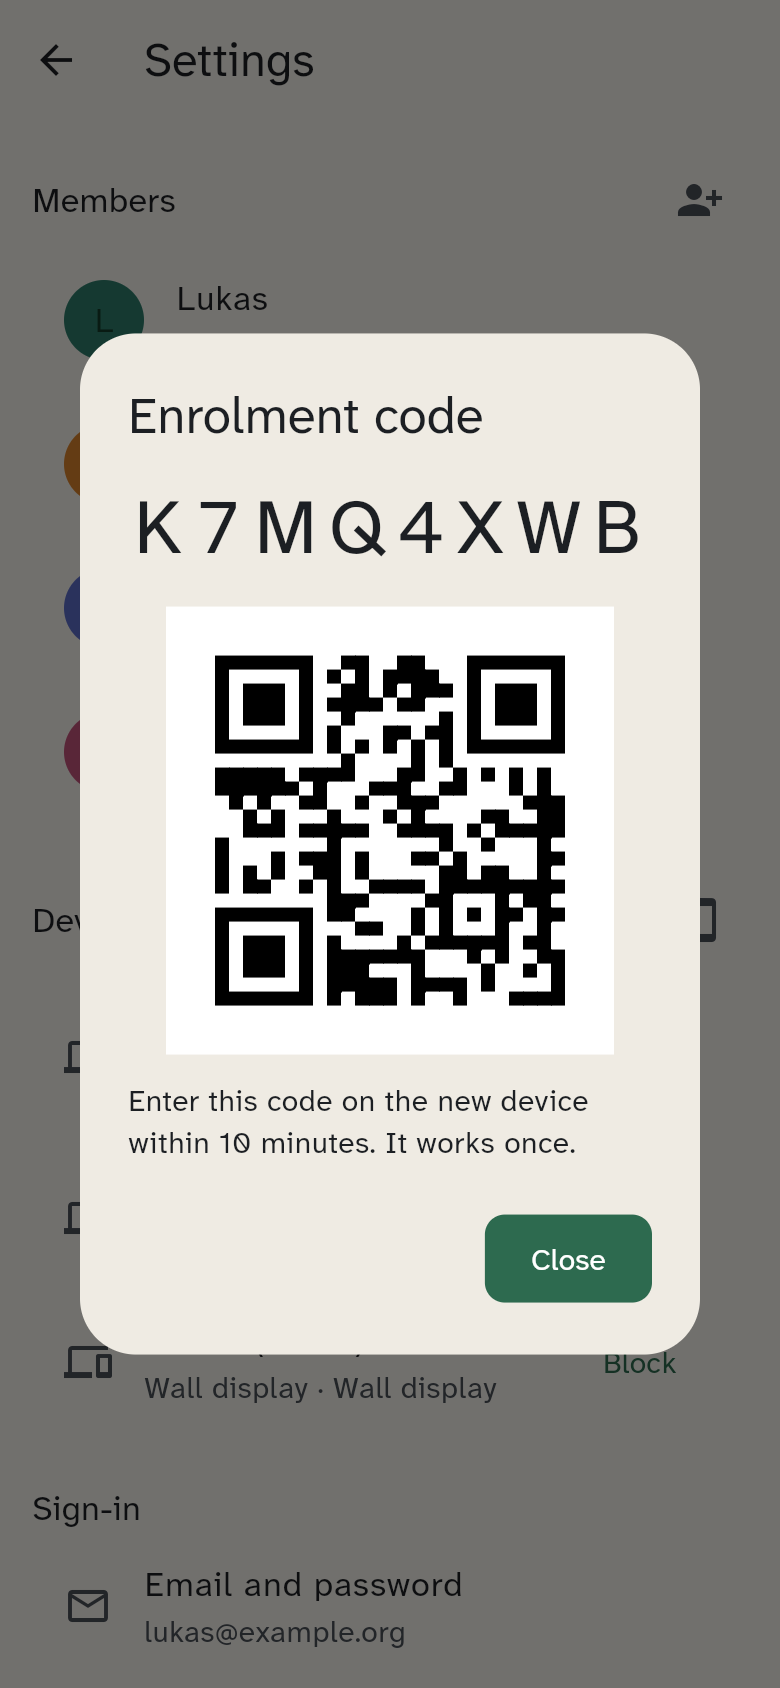
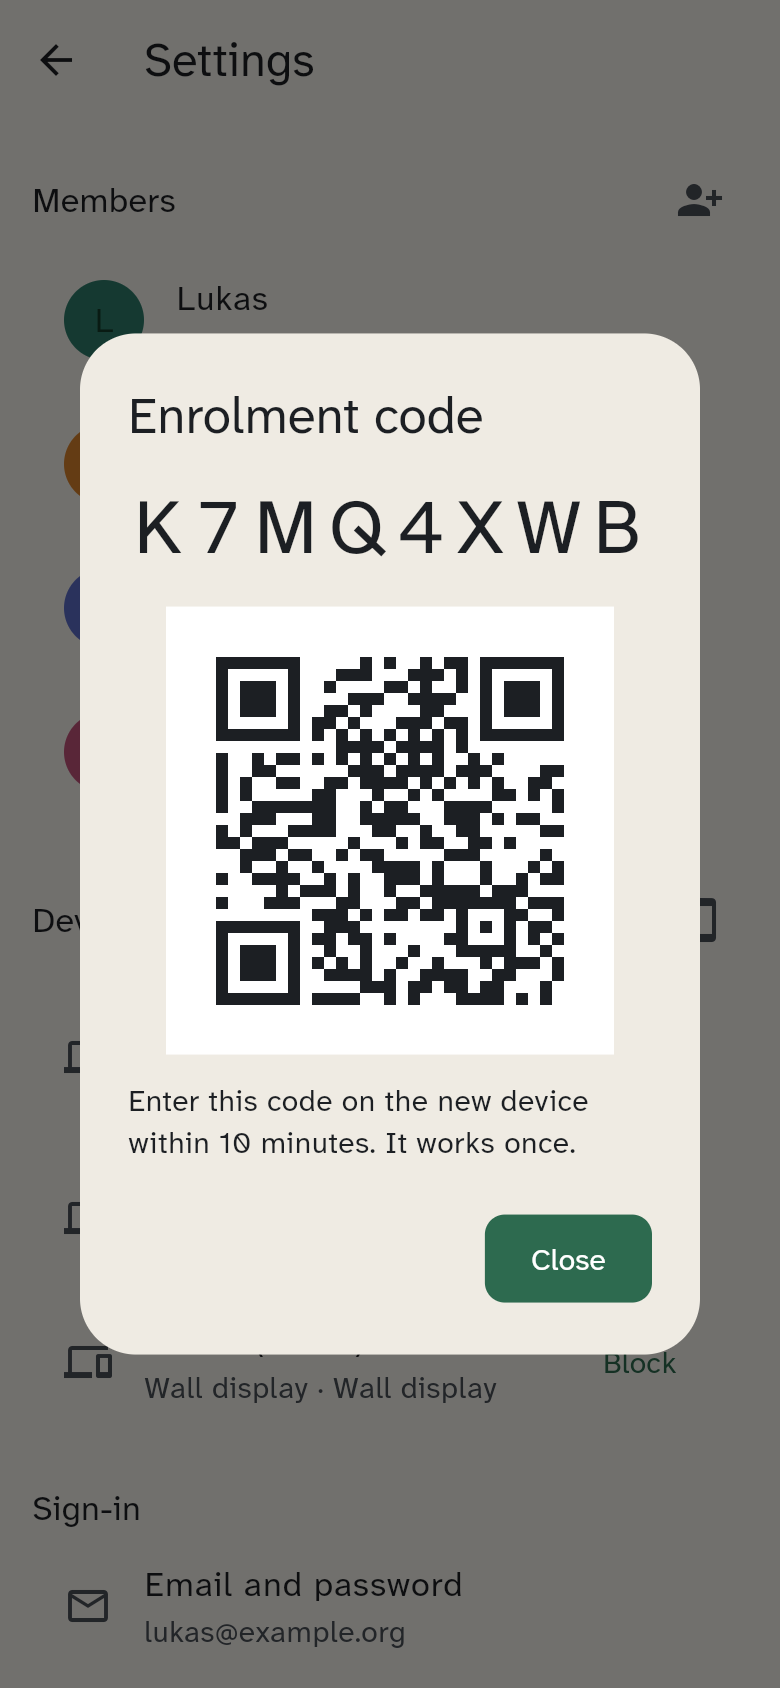
App: replace qr_flutter with a QrCodeView on qr 4
qr_flutter has not been released since May 2023 and held qr at 3.x. QrCodeView is
about a hundred lines over qr's module matrix: whole device pixels per module, a
4-module quiet zone, error correction M. Colours come from the theme (qrInk/qrPaper:
the shade's own text pair, dark on light, amber paper at night) instead of a
Colors.white literal, and the TOTP code gets a localized semantics label it lacked.
Tests check every module's pixels against the matrix in all three shades; the docs
screenshots decode with jsQR in day and night colours.

Changed region(s): [[0.2769, 0.3697, 0.7385, 0.6161]]

diff --git a/app/test/core/qr_code_view_test.dart b/app/test/core/qr_code_view_test.dart
@@ -1,0 +1,138 @@
+import 'dart:ui' as ui;
+
+import 'package:flutter/foundation.dart';
+import 'package:flutter/material.dart';
+import 'package:flutter_test/flutter_test.dart';
+import 'package:qr/qr.dart';
+import 'package:wuselwall/app/theme/app_theme.dart';
+import 'package:wuselwall/app/theme/palette.dart';
+import 'package:wuselwall/app/theme/ui_register.dart';
+import 'package:wuselwall/app/theme/ww_colors.dart';
+import 'package:wuselwall/core/ui/qr_code_view.dart';
+
+const _enrolment = 'wuselwall://enrol?code=ABCD2345';
+const _totp =
+    'otpauth://totp/WuselWall:someone%40example.org?secret=JBSWY3DPEHPK3PXPJBSWY3DPEHPK3PXP'
+    '&issuer=WuselWall&algorithm=SHA1&digits=6&period=30';
+
+QrImage _matrix(String data) => QrImage(
+  QrCode(
+    payload: QrPayload.fromString(data),
+    errorCorrectLevel: QrErrorCorrectLevel.medium,
+  ),
+);
+
+List<int> _rgb(Color c) => [
+  (c.r * 255).round(),
+  (c.g * 255).round(),
+  (c.b * 255).round(),
+];
+
+/// Paints [painter] into a [logical]-sized square at [dpr] and returns RGBA pixels.
+Future<({Uint8List rgba, int width})> _render(
+  QrMatrixPainter painter,
+  double logical,
+  double dpr,
+) async {
+  final recorder = ui.PictureRecorder();
+  final canvas = Canvas(recorder)..scale(dpr);
+  painter.paint(canvas, Size.square(logical));
+  final width = (logical * dpr).round();
+  final image = await recorder.endRecording().toImage(width, width);
+  final bytes = await image.toByteData();
+  return (rgba: bytes!.buffer.asUint8List(), width: width);
+}
+
+void main() {
+  for (final shade in Shade.values) {
+    final ww = WwColors(shade: shade);
+    final ink = _rgb(ww.qrInk), paper = _rgb(ww.qrPaper);
+
+    for (final (name, data, logical, dpr) in [
+      ('enrolment code, 1x', _enrolment, 224.0, 1.0),
+      ('enrolment code, 2.625x', _enrolment, 224.0, 2.625),
+      ('TOTP URI, 3x', _totp, 224.0, 3.0),
+      ('TOTP URI, 1.5x', _totp, 180.0, 1.5),
+    ]) {
+      test('${shade.name}: every module matches the qr matrix, $name', () async {
+        final matrix = _matrix(data);
+        final painter = QrMatrixPainter(
+          image: matrix,
+          darkColor: ww.qrInk,
+          lightColor: ww.qrPaper,
+          devicePixelRatio: dpr,
+        );
+        final r = await _render(painter, logical, dpr);
+        final n = matrix.moduleCount;
+        final modulePx = (painter.moduleExtent(logical) * dpr).round();
+        List<int> pixel(int x, int y) =>
+            r.rgba.sublist((y * r.width + x) * 4, (y * r.width + x) * 4 + 3);
+
+        // The first ink pixel on the diagonal is the top-left finder's outer corner.
+        var origin = 0;
+        while (!listEquals(pixel(origin, origin), ink)) {
+          origin++;
+        }
+
+        // A quiet zone of at least 4 modules on every side, all paper.
+        final end = origin + n * modulePx;
+        expect(origin, greaterThanOrEqualTo(4 * modulePx));
+        expect(r.width - end, greaterThanOrEqualTo(4 * modulePx));
+        for (var y = 0; y < r.width; y++) {
+          for (var x = 0; x < r.width; x++) {
+            if (x < origin || y < origin || x >= end || y >= end) {
+              expect(pixel(x, y), paper, reason: '($x,$y)');
+            }
+          }
+        }
+
+        // Every pixel of every module has the module's colour: crisp, no seams.
+        for (var row = 0; row < n; row++) {
+          for (var col = 0; col < n; col++) {
+            final want = matrix.isDark(row, col) ? ink : paper;
+            for (var dy = 0; dy < modulePx; dy++) {
+              for (var dx = 0; dx < modulePx; dx++) {
+                final x = origin + col * modulePx + dx;
+                final y = origin + row * modulePx + dy;
+                expect(pixel(x, y), want, reason: 'module ($row,$col)');
+              }
+            }
+          }
+        }
+      });
+    }
+  }
+
+  testWidgets('screen readers get the label as an image, at the given size', (
+    t,
+  ) async {
+    final semantics = t.ensureSemantics();
+    await t.pumpWidget(
+      MaterialApp(
+        theme: AppTheme.build(UiRegister.adult, Shade.light),
+        home: const Center(
+          child: QrCodeView(data: _enrolment, semanticsLabel: 'enrolment QR'),
+        ),
+      ),
+    );
+    expect(
+      t.getSemantics(find.byType(QrCodeView)),
+      matchesSemantics(label: 'enrolment QR', isImage: true),
+    );
+    expect(t.getSize(find.byType(QrCodeView)), const Size.square(224));
+    semantics.dispose();
+  });
+
+  test('refuses an inverted (light on dark) code', () {
+    final ww = WwColors(shade: Shade.dark);
+    expect(
+      () => QrMatrixPainter(
+        image: _matrix(_enrolment),
+        darkColor: ww.qrPaper,
+        lightColor: ww.qrInk,
+        devicePixelRatio: 1,
+      ),
+      throwsAssertionError,
+    );
+  });
+}

diff --git a/app/lib/core/ui/qr_code_view.dart b/app/lib/core/ui/qr_code_view.dart
@@ -1,0 +1,137 @@
+import 'dart:math' as math;
+
+import 'package:flutter/widgets.dart';
+import 'package:qr/qr.dart';
+import 'package:wuselwall/app/theme/ww_colors.dart';
+
+/// A QR code drawn from `package:qr`'s module matrix, in the shade's `qrInk` on its
+/// `qrPaper` — always dark on light, since many scanners do not read inverted codes.
+/// The paper fills [size] and includes a quiet zone of [quietZone] modules (ISO/IEC
+/// 18004 asks for 4). Error correction M survives glare on a screen better than L.
+class QrCodeView extends StatelessWidget {
+  const QrCodeView({
+    required this.data,
+    required this.semanticsLabel,
+    this.size = 224,
+    this.quietZone = 4,
+    super.key,
+  });
+
+  /// What the code encodes. App-made and short; beyond version 40 `qr` throws.
+  final String data;
+
+  /// Read out instead of the image: a `context.l10n` string.
+  final String semanticsLabel;
+
+  /// Logical pixels, quiet zone included.
+  final double size;
+  final int quietZone;
+
+  @override
+  Widget build(BuildContext context) {
+    final image = QrImage(
+      QrCode(
+        payload: QrPayload.fromString(data),
+        errorCorrectLevel: QrErrorCorrectLevel.medium,
+      ),
+    );
+    return Semantics(
+      label: semanticsLabel,
+      image: true,
+      child: SizedBox.square(
+        dimension: size,
+        child: CustomPaint(
+          painter: QrMatrixPainter(
+            image: image,
+            darkColor: context.ww.qrInk,
+            lightColor: context.ww.qrPaper,
+            quietZone: quietZone,
+            devicePixelRatio: MediaQuery.maybeDevicePixelRatioOf(context) ?? 1,
+          ),
+        ),
+      ),
+    );
+  }
+}
+
+/// Paints whole device pixels per module with anti-aliasing off: crisp edges, no seams
+/// between neighbouring modules. The code is centred; what is left over is paper.
+@visibleForTesting
+class QrMatrixPainter extends CustomPainter {
+  QrMatrixPainter({
+    required this.image,
+    required this.darkColor,
+    required this.lightColor,
+    required this.devicePixelRatio,
+    this.quietZone = 4,
+  }) : assert(
+         darkColor.computeLuminance() < lightColor.computeLuminance(),
+         'QR codes must be dark on light to scan reliably.',
+       );
+
+  final QrImage image;
+  final Color darkColor;
+  final Color lightColor;
+  final double devicePixelRatio;
+  final int quietZone;
+
+  /// The side of one module in logical pixels: a whole number of device pixels.
+  double moduleExtent(double extent) {
+    final total = image.moduleCount + 2 * quietZone;
+    final devicePixels = math.max(
+      1,
+      (extent * devicePixelRatio / total).floor(),
+    );
+    return devicePixels / devicePixelRatio;
+  }
+
+  @override
+  void paint(Canvas canvas, Size size) {
+    canvas.drawRect(Offset.zero & size, Paint()..color = lightColor);
+    final n = image.moduleCount;
+    final module = moduleExtent(size.shortestSide);
+    final code = module * n;
+    double snap(double v) =>
+        (v * devicePixelRatio).floorToDouble() / devicePixelRatio;
+    final left = snap((size.width - code) / 2);
+    final top = snap((size.height - code) / 2);
+
+    // One rectangle per horizontal run of dark modules, filled as a single path.
+    final path = Path();
+    for (var row = 0; row < n; row++) {
+      var col = 0;
+      while (col < n) {
+        if (!image.isDark(row, col)) {
+          col++;
+          continue;
+        }
+        final start = col;
+        while (col < n && image.isDark(row, col)) {
+          col++;
+        }
+        path.addRect(
+          Rect.fromLTWH(
+            left + start * module,
+            top + row * module,
+            (col - start) * module,
+            module,
+          ),
+        );
+      }
+    }
+    canvas.drawPath(
+      path,
+      Paint()
+        ..color = darkColor
+        ..isAntiAlias = false,
+    );
+  }
+
+  @override
+  bool shouldRepaint(QrMatrixPainter old) =>
+      old.image != image ||
+      old.darkColor != darkColor ||
+      old.lightColor != lightColor ||
+      old.devicePixelRatio != devicePixelRatio ||
+      old.quietZone != quietZone;
+}

diff --git a/app/lib/features/settings/ui/settings_page.dart b/app/lib/features/settings/ui/settings_page.dart
@@ -3,7 +3,6 @@ import 'package:flutter/material.dart';
 import 'package:flutter/services.dart';
 import 'package:flutter_riverpod/flutter_riverpod.dart';
 import 'package:go_router/go_router.dart';
-import 'package:qr_flutter/qr_flutter.dart';
 import 'package:wuselwall/app/router.dart';
 import 'package:wuselwall/app/theme/register_labels.dart';
 import 'package:wuselwall/app/theme/tokens.dart';
@@ -11,6 +10,7 @@ import 'package:wuselwall/app/theme/ui_register.dart';
 import 'package:wuselwall/core/error/result.dart';
 import 'package:wuselwall/core/l10n/l10n.dart';
 import 'package:wuselwall/core/ui/async_value_view.dart';
+import 'package:wuselwall/core/ui/qr_code_view.dart';
 import 'package:wuselwall/core/ui/snackbars.dart';
 import 'package:wuselwall/features/identity/application/acting_profile.dart';
 import 'package:wuselwall/features/identity/application/device_providers.dart';
@@ -696,10 +696,9 @@ class _TotpEnrolDialogState extends ConsumerState<_TotpEnrolDialog> {
             children: [
               Text(l10n.totpScanBody),
               const SizedBox(height: Tokens.space3),
-              Container(
-                color: Colors.white,
-                padding: const EdgeInsets.all(Tokens.space3),
-                child: QrImageView(data: widget.enrolment.uri, size: 200),
+              QrCodeView(
+                data: widget.enrolment.uri,
+                semanticsLabel: l10n.totpQrLabel,
               ),
               const SizedBox(height: Tokens.space3),
               SelectableText(

diff --git a/app/lib/features/identity/ui/enrolment_qr.dart b/app/lib/features/identity/ui/enrolment_qr.dart
@@ -1,10 +1,9 @@
 import 'package:flutter/material.dart';
-import 'package:qr_flutter/qr_flutter.dart';
-import 'package:wuselwall/app/theme/tokens.dart';
 import 'package:wuselwall/core/l10n/l10n.dart';
+import 'package:wuselwall/core/ui/qr_code_view.dart';
 import 'package:wuselwall/features/identity/domain/enrol_code.dart';
 
-/// The enrolment code as a QR code, on a white tile so it scans in dark mode too.
+/// The enrolment code as a QR code, dark on paper in every shade so it scans.
 class EnrolmentQr extends StatelessWidget {
   EnrolmentQr({required String code, super.key})
     : payload = enrolmentQrPayload(code);
@@ -13,13 +12,6 @@ class EnrolmentQr extends StatelessWidget {
   final String payload;
 
   @override
-  Widget build(BuildContext context) => Container(
-    color: Colors.white,
-    padding: const EdgeInsets.all(Tokens.space3),
-    child: QrImageView(
-      data: payload,
-      size: 200,
-      semanticsLabel: context.l10n.enrolmentQrLabel,
-    ),
-  );
+  Widget build(BuildContext context) =>
+      QrCodeView(data: payload, semanticsLabel: context.l10n.enrolmentQrLabel);
 }

diff --git a/app/lib/app/theme/ww_colors.dart b/app/lib/app/theme/ww_colors.dart
@@ -22,6 +22,12 @@ class WwColors extends ThemeExtension<WwColors> {
   Color get onWarningContainer => _c.onWarningContainer;
   Color get points => Palette.points;
   Color get onPoints => Palette.onPoints;
+
+  /// A QR code's modules and ground: the shade's own text pair, darker side as ink,
+  /// because scanners need dark on light. Paper, not white, in dark and night, so the
+  /// code does not glare (night stays at its ~10:1).
+  Color get qrInk => shade == Shade.light ? _c.ink : _c.bg;
+  Color get qrPaper => shade == Shade.light ? _c.surface : _c.ink;
   ProviderButtonColors get appleButton => ProviderBrand.apple(shade);
   ProviderButtonColors get googleButton => ProviderBrand.google(shade);
 

diff --git a/app/test/app/theme_test.dart b/app/test/app/theme_test.dart
@@ -142,6 +142,22 @@ void main() {
     });
   });
 
+  test('QR codes are dark on light with strong contrast in every shade', () {
+    for (final shade in Shade.values) {
+      final ww = WwColors(shade: shade);
+      expect(
+        ww.qrInk.computeLuminance(),
+        lessThan(ww.qrPaper.computeLuminance()),
+        reason: shade.name,
+      );
+      expect(
+        contrast(ww.qrInk, ww.qrPaper),
+        greaterThanOrEqualTo(7),
+        reason: '${shade.name}: ${contrast(ww.qrInk, ww.qrPaper)} : 1',
+      );
+    }
+  });
+
   group('night', () {
     test('runs from 21:00 to 06:00', () {
       expect(isNightAt(DateTime(2026, 10, 12, 20, 59)), isFalse);

diff --git a/specs/17-design-system.md b/specs/17-design-system.md
@@ -202,7 +202,10 @@ As implemented:
   and cards use `surfaceContainerLow`, which is white.
 - `WwColors` (a `ThemeExtension`, read with `context.ww`) carries what Material has no
   slot for: `ink2`/`ink3`, `sunken`, `line`, success, warning, points, member colours
-  (`context.ww.member(member.color)` → ink, onInk, tint) and paper tints.
+  (`context.ww.member(member.color)` → ink, onInk, tint), paper tints, and `qrInk` /
+  `qrPaper` for QR codes (`core/ui/qr_code_view.dart`): the shade's own text pair with
+  the darker side as ink, since scanners need dark on light — `ink` on `surface` in
+  light, `bg` on `ink` in dark and night, so a code never glares at night.
 - `Shade` is `light | dark | night`. Night is a third `ThemeData`, used by the kiosk
   register from 21:00 to 06:00 (`nightProvider`, which rebuilds at each boundary)
   regardless of the OS setting.
